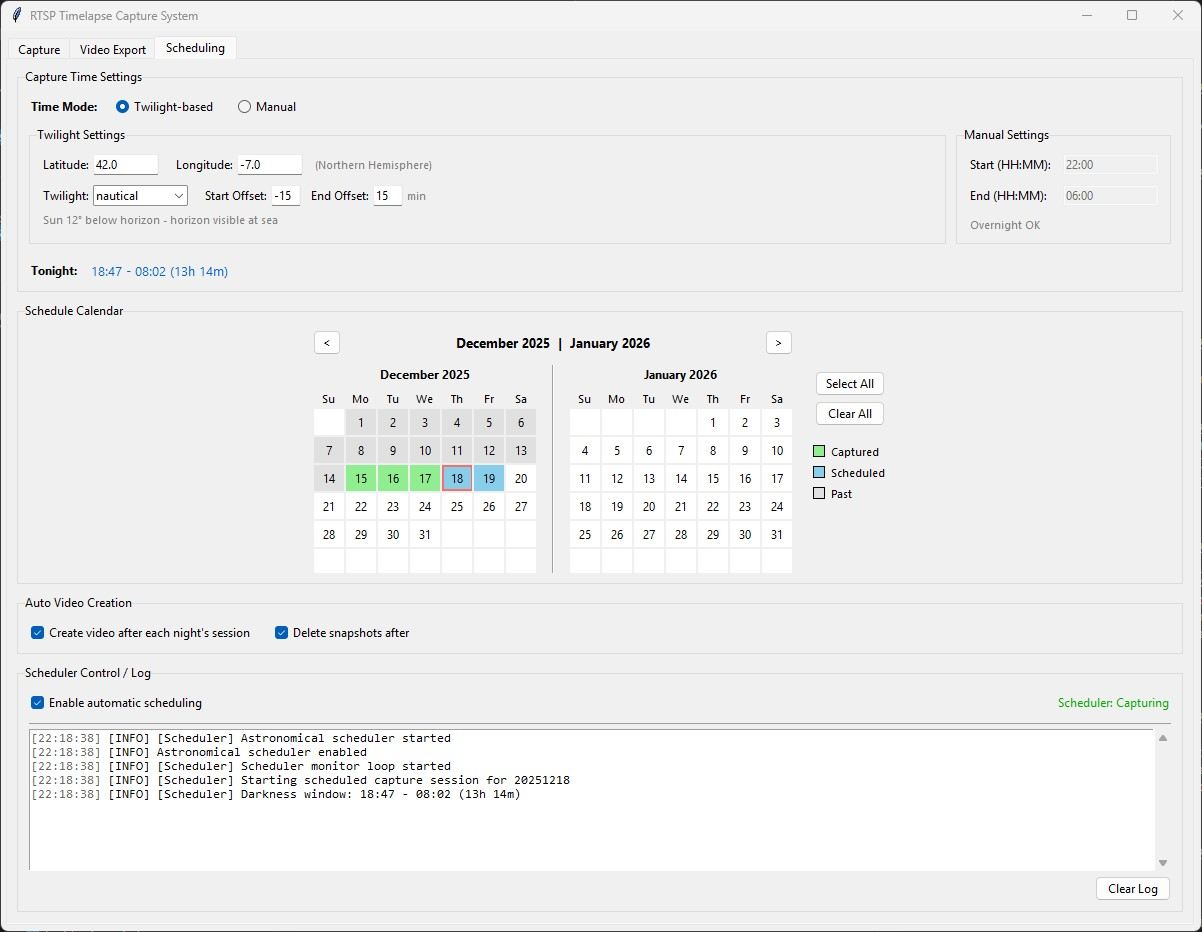
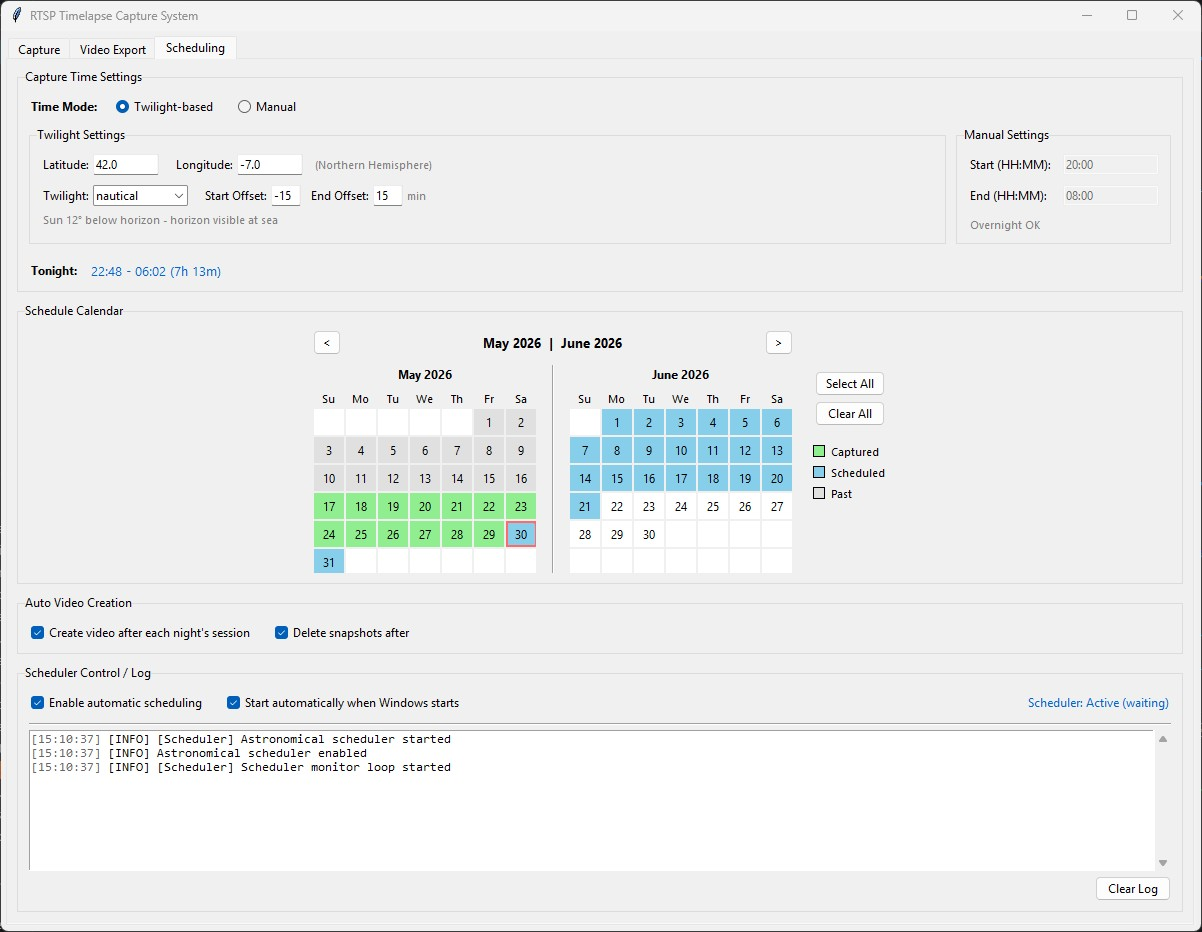
docs: refresh scheduling tab screenshot + caption
Replace the Scheduling tab screenshot with an updated capture and expand the
README caption to match what it now shows: start-with-Windows, the live
scheduler status indicator, optional snapshot cleanup, and the calendar legend
(captured / scheduled / past).

diff --git a/README.md b/README.md
@@ -65,7 +65,7 @@
 
 ### Scheduling Tab (NEW in v3.0)
 ![Scheduling Interface](screenshots/Scheduling_tab.jpg)
-*Astronomical scheduling interface with twilight/manual time modes, two-month calendar, auto video creation, and scheduler log.*
+*Astronomical scheduling interface: twilight or manual time modes, two-month capture calendar (captured / scheduled / past), auto video creation with optional snapshot cleanup, start-automatically-with-Windows, a live scheduler status indicator, and scheduler log.*
 
 ---
 